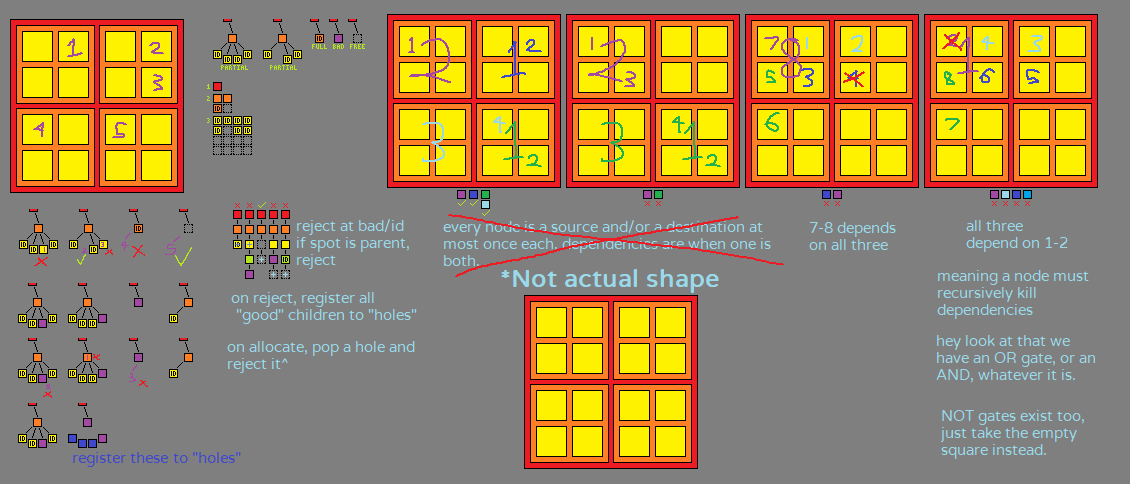
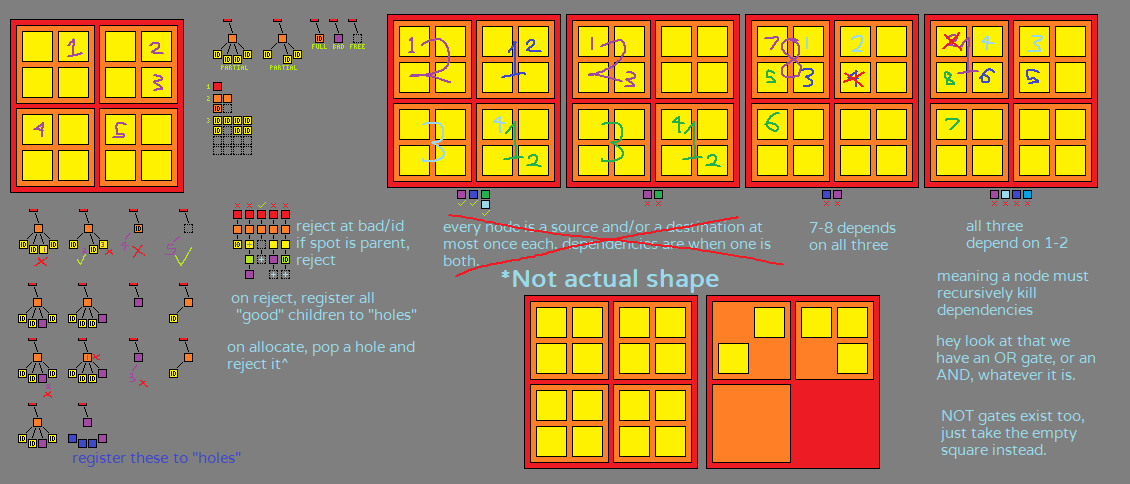
made quadtree visualizer

Changed region(s): [[0.6195, 0.5888, 0.8053, 0.9917]]

diff --git a/poc-fractal/src/main.rs b/poc-fractal/src/main.rs
@@ -1,0 +1,272 @@
+use ::std::{
+    f32::consts::TAU,
+    fmt::{Debug, Display},
+};
+use std::array;
+
+use ::ergoquad_2d::prelude::*;
+// the macroquad rand module is terrible. why does macroquad do this?
+use ::rand::{distributions::Standard, prelude::*};
+
+#[cfg(test)]
+mod tests {
+    use super::*;
+
+    #[test]
+    fn test_macro() {
+        let tre = tree! {
+            { 1, 2, 3, { 4, 5, ., 7} }
+        };
+        println!("{tre}");
+    }
+
+    #[test]
+    fn test_rand() {
+        let mut rng = thread_rng();
+        let tre = QuadTree::<u8>::rand(&mut rng, 5);
+        println!("{tre}");
+    }
+}
+
+enum QuadTree<T> {
+    Leaf(T),
+    Branch([Option<Box<Self>>; 4]),
+}
+
+impl<T> QuadTree<T> {
+    fn rand(rng: &mut impl Rng, depth: usize) -> Self
+    where
+        Standard: Distribution<T>,
+    {
+        // let mut possible_trees: u32 = 1;
+        // let mut possible_branches = !0;
+        // for _ in 0..depth {
+        //     possible_branches = possible_trees + 1;
+        //     possible_trees = possible_branches.pow(4) + 1;
+        // }
+
+        // let is_leaf = rng.gen_ratio(1, possible_trees);
+        let is_leaf = rng.gen_ratio(1, 1 << depth);
+        if is_leaf {
+            Self::Leaf(rng.gen())
+        } else {
+            Self::Branch(array::from_fn(|_| {
+                // let is_some = !rng.gen_ratio(1, possible_branches);
+                let is_some = !rng.gen_ratio(1, 2);
+                is_some.then(|| Box::new(Self::rand(rng, depth - 1)))
+            }))
+        }
+    }
+}
+
+impl QuadTree<()> {
+    fn _draw(&self, depth: usize) {
+        let palette = [RED, ORANGE, YELLOW, GREEN, BLUE, PURPLE];
+        let col = palette[depth % palette.len()];
+
+        // draw base color
+        draw_rectangle(0.0, 0.0, 1.0, 1.0, col);
+
+        // draw outline
+        let outline_thickness = 1.0 / 64.0;
+        draw_rectangle_lines(0.0, 0.0, 1.0, 1.0, outline_thickness, BLACK);
+
+        let Self::Branch(children) = self else {
+            return;
+        };
+
+        // margin between child trees
+        let margin = 1.0 / 32.0;
+
+        let scale = upscale(0.5 - margin * 2.0);
+        for (y, row) in children.chunks_exact(2).enumerate() {
+            let y = y as f32 * 0.5 + margin;
+            for (x, node) in row.iter().enumerate() {
+                let x = x as f32 * 0.5 + margin;
+                if let Some(node) = node {
+                    apply(shift(x, y) * scale, || node._draw(depth + 1));
+                }
+            }
+        }
+    }
+
+    fn draw(&self) {
+        self._draw(0);
+    }
+}
+
+impl<T: Display> Display for QuadTree<T> {
+    fn fmt(&self, f: &mut std::fmt::Formatter<'_>) -> std::fmt::Result {
+        match self {
+            QuadTree::Leaf(val) => val.fmt(f),
+            QuadTree::Branch(children) => {
+                write!(f, "{{ ")?;
+                for child in children {
+                    match child {
+                        Some(val) => write!(f, "{val}")?,
+                        None => write!(f, ".")?,
+                    }
+                    write!(f, " ")?;
+                }
+                write!(f, "}}")
+            }
+        }
+    }
+}
+
+impl<T: Debug> Debug for QuadTree<T> {
+    fn fmt(&self, f: &mut std::fmt::Formatter<'_>) -> std::fmt::Result {
+        match self {
+            QuadTree::Leaf(val) => val.fmt(f),
+            QuadTree::Branch(children) => {
+                write!(f, "{{ ")?;
+                for child in children {
+                    match child {
+                        Some(val) => write!(f, "{val:?}")?,
+                        None => write!(f, ".")?,
+                    }
+                    write!(f, " ")?;
+                }
+                write!(f, "}}")
+            }
+        }
+    }
+}
+
+macro_rules! tree {
+    (node .) => {
+        None
+    };
+    (node $t:tt) => {
+        Some(Box::new(tree!($t)))
+    };
+
+    ({ $tl:tt,  $tr:tt, $bl:tt, $br:tt $(,)? }) => {
+        QuadTree::Branch([
+            tree!(node $tl),
+            tree!(node $tr),
+            tree!(node $bl),
+            tree!(node $br),
+        ])
+    };
+    ($t:expr) => {
+        QuadTree::Leaf($t)
+    };
+}
+pub(crate) use tree;
+
+fn window_conf() -> Conf {
+    Conf {
+        window_title: "WASD/Drag to move, Scroll to zoom, QE to rotate.".to_owned(),
+        window_width: 512,
+        window_height: 512,
+        fullscreen: false,
+        window_resizable: true,
+        ..Default::default()
+    }
+}
+
+#[macroquad::main(window_conf)]
+async fn main() {
+    // camera for canvases
+    let cam = &mut Camera2D::default();
+    cam.zoom = vec2(1.0, -1.0);
+    set_camera(cam);
+
+    // mouse data
+    let mut mouse = mouse_position_local();
+    let mut mouse_prev;
+
+    // resource folder
+    set_pc_assets_folder("../assets");
+    // font
+    let font = load_ttf_font("fonts/VarelaRound-Regular.ttf")
+        .await
+        .expect("rip varela round");
+
+    // initialize tree
+    let mut rng = thread_rng();
+    let tree = QuadTree::<()>::rand(&mut rng, 5);
+    // let tree = tree! ({
+    //     { . , (), (), .  },
+    //     { (), (), . , () },
+    //     { },
+    //     .,
+    // });
+    println!("{tree:?}");
+
+    // initialize transforms
+    let [mut x, mut y, mut rot] = [0.75, 0.75, 0.0];
+    let mut flipped = false;
+    let mut zoom = 0.25;
+
+    // main loop
+    loop {
+        // nearly every macroquad function uses f32 instead of f64 because that's what `Mat4`s are made of
+        let time = get_time() as f32;
+        // for some reason this uses f32s already
+        let delta = get_frame_time();
+
+        // check mouse
+        // mouse goes downwards, while transforms go upwards
+        mouse_prev = mouse;
+        mouse = mouse_position_local();
+        let mouse_delta = mouse - mouse_prev;
+
+        // scroll goes up, transforms zoom in
+        let (_scroll_x, scroll_y) = mouse_wheel();
+        {
+            // zoom
+            let scroll_sens = 1.0 / 120.0;
+            // println!("{scroll_y}");
+            zoom *= (2_f32).powf(scroll_y * scroll_sens);
+
+            // drag controls
+            if is_mouse_button_down(MouseButton::Left) {
+                x += mouse_delta.x;
+                y += mouse_delta.y;
+            }
+        }
+
+        // check keypresses
+        {
+            use KeyCode::*;
+            // Quit on Esc
+            if let Some(Escape) = get_last_key_pressed() {
+                return;
+            }
+
+            // WASD movement, y goes down
+            if is_key_down(W) {
+                y -= delta;
+            }
+            if is_key_down(S) {
+                y += delta;
+            }
+            if is_key_down(A) {
+                x -= delta;
+            }
+            if is_key_down(D) {
+                x += delta;
+            }
+
+            // rotation, clockwise
+            let sensitivity = TAU / 2.0; // no i will not use pi
+            if is_key_down(Q) {
+                rot -= delta * sensitivity;
+            }
+            if is_key_down(E) {
+                rot += delta * sensitivity;
+            }
+
+            if is_key_pressed(CapsLock) {
+                flipped ^= true;
+            }
+        }
+
+        apply(shift(-1.0, -1.0) * upscale(2.0), || tree.draw());
+
+        // end frame
+        next_frame().await
+    }
+}
